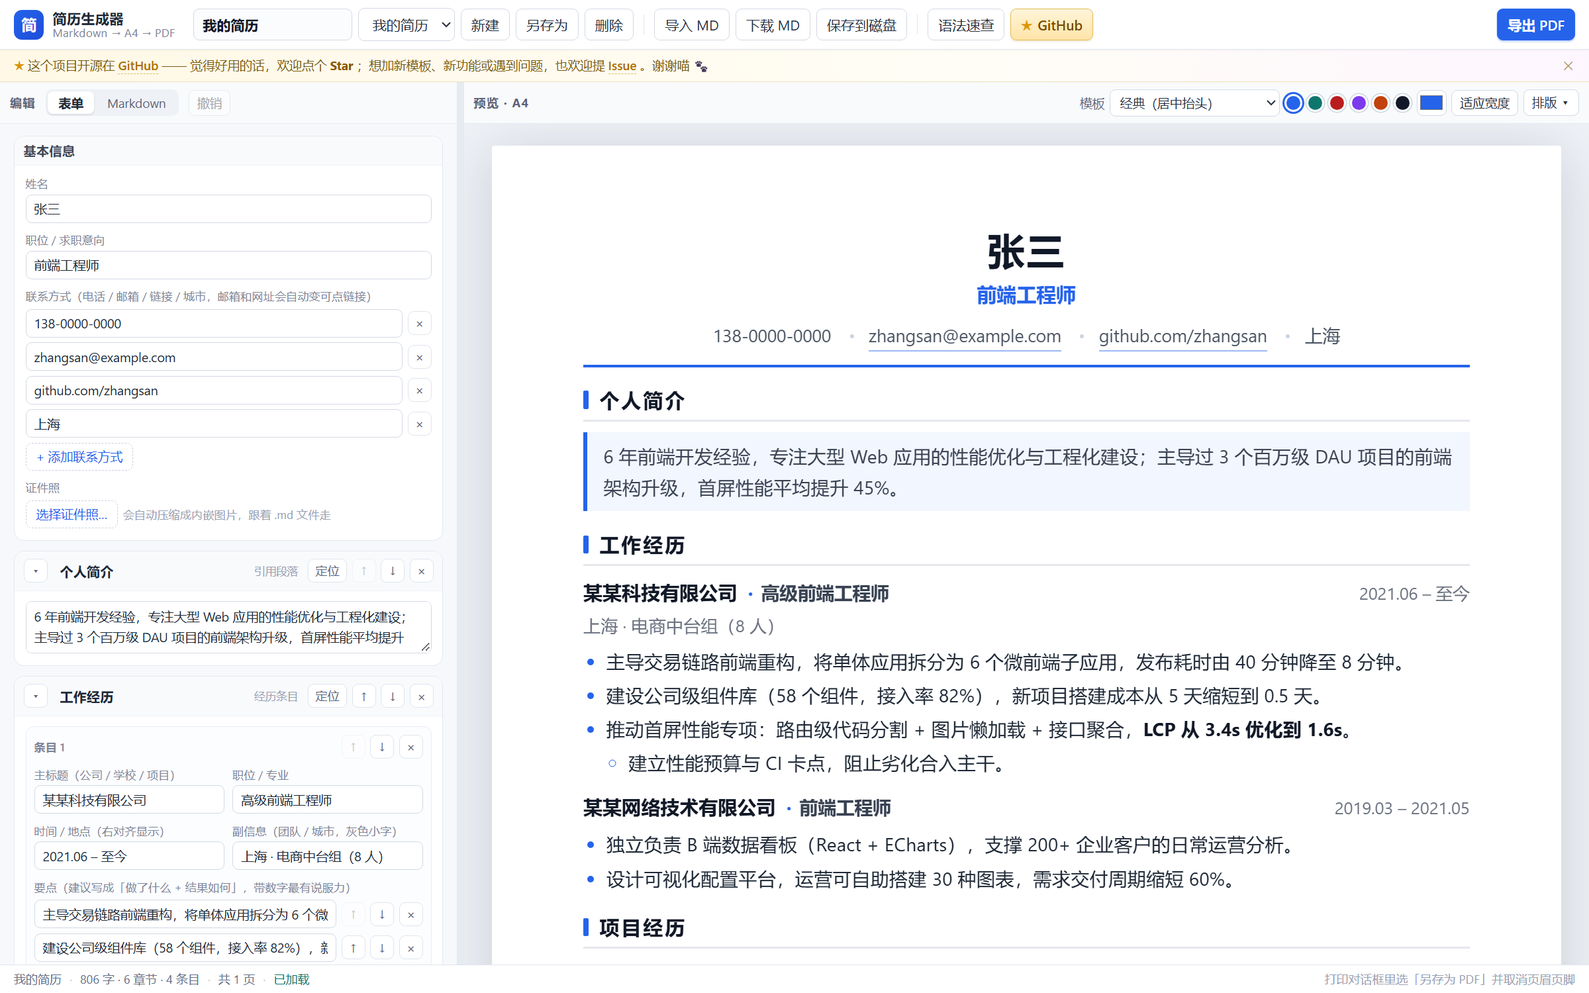
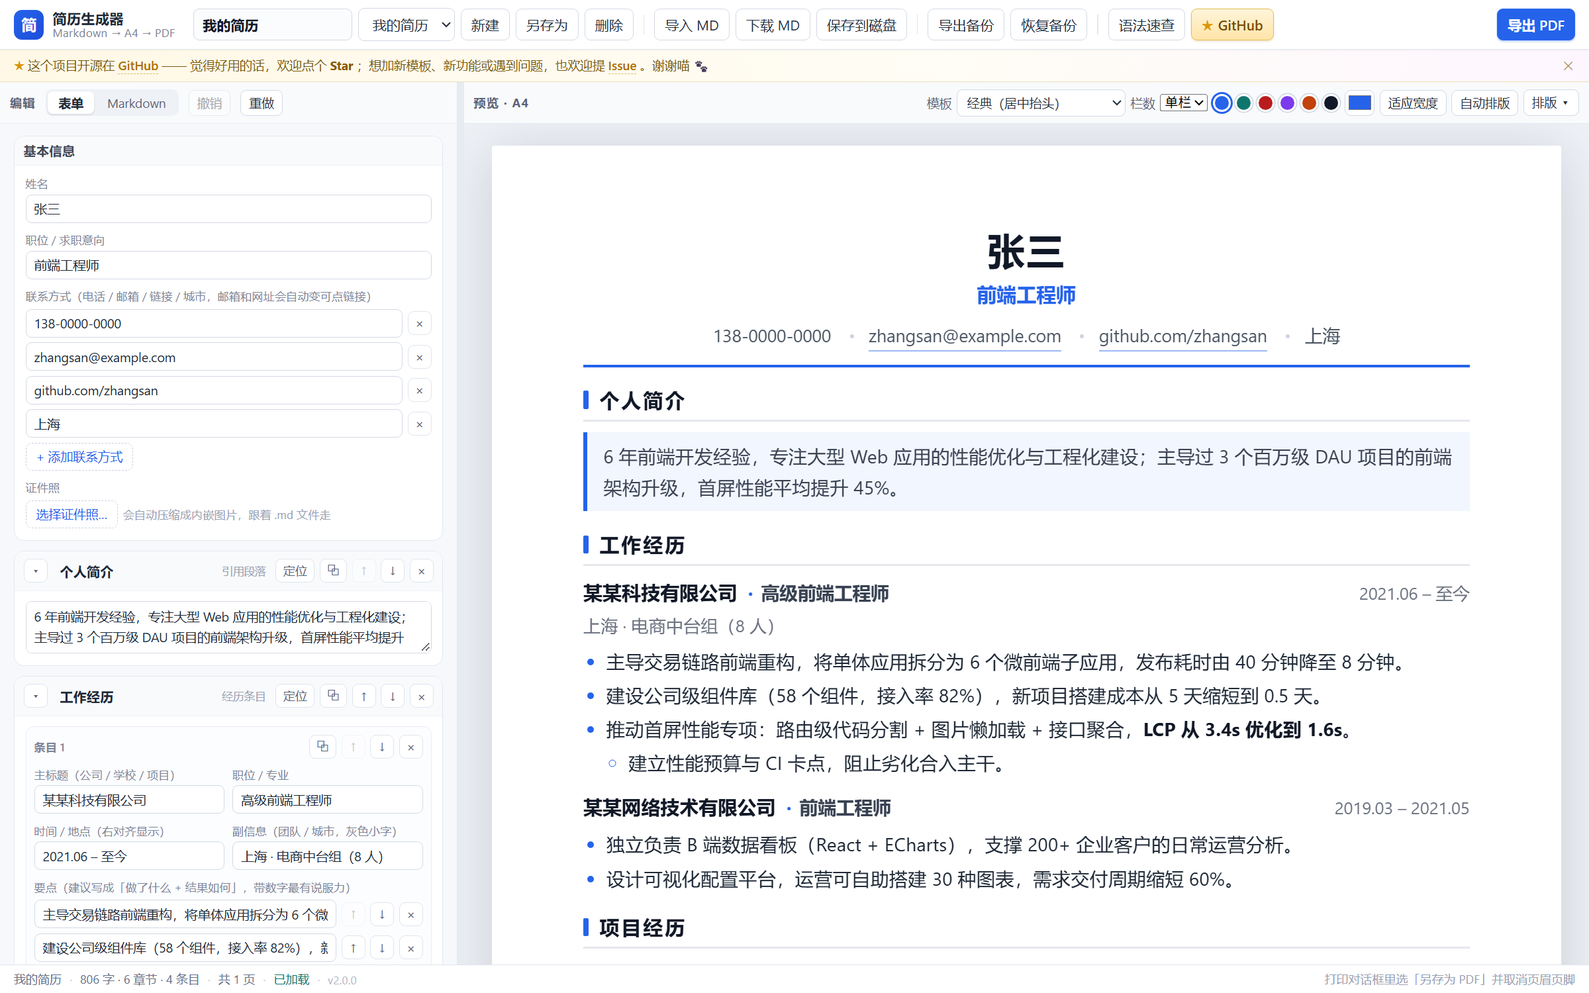
发布 2.0.0（清账版）：打印分页自动化、深色收尾、表格布局、独立审查修复
新功能/改进
- 「压到一页」升级为「自动排版」：内容超一页就压缩，不足一页就放大填满（到 98% 左右停），整体可撤销
- 栏数从样式里拆出来（template 只管 7 套样式，columns: 1|2 独立），任意样式都能配双栏；
  左栏可单独设字号与文字色（railFontSize / railColor）；旧 template: twocol 继续兼容
- 「栏数」「自动排版」挪到预览区右上角（样式下拉与「排版」按钮旁）

按第六轮独立审查修复（报告存 .reviews/2.0.0-review.md）
- P1 界面预览.png 是升版本前的截图（README 首图显示 v1.8.3）→ 用当前构建截图覆盖
- P1 README 两处 template 被 TAB 破坏 → 修字
- P2 3+ 列表格最小宽度固定 300px、4/5 列仍挤 → 改为按列数计算（220 + cols*80），静态断言改为匹配真实条件
- P2 分页用例只测「至少 2 页」→ 收紧为精确页数（手动分页恰好 3 页、双栏恰好 2 页）
  + 新增逐页文本断言（个人简介第 1 页 / 工作经历第 2 页）
- P2 表单编辑段落/引用章节会吞掉紧邻的手动分页（既有 bug）→ 收集正文跳过 ---、改写时保留 + edge 回归用例
- P2 更新日志补 1.8.1–1.8.3，2.0.0 只保留清账内容；README 自检数字按实跑修正（361 项）
- P3 深色下横幅关闭按钮悬停的浅色描边；T6 容差还原 +1；目录结构「8 套」→ 7 套样式

打印分页验证（本次重点）
- 造了 5 组真实场景（单栏 1 页 / 单栏 2 页 / 双栏 2 页 / 带证件照 / 两处手动分页）出 PDF + 首页图
- 双栏超过一页时第 2 页左侧留空 = 明确接受的取舍，已写进 README 说明与限制

测试：引擎 51 + 表单 41 + 边界 124 + 应用 118 + 导出 27 = 361 项全绿；
单文件版 211.4 KB，与全新构建逐字节一致；版本号五处统一 2.0.0。

diff --git a/简历生成器-单文件.html b/简历生成器-单文件.html
@@ -1,7 +1,7 @@
 <!DOCTYPE html>
 <html lang="zh-CN">
 <head>
-<!-- 简历生成器 · 单文件便携版（构建于 2026-10-11）
+<!-- 简历生成器 · 单文件便携版（构建于 2026-10-17）
      直接双击用浏览器打开即可：写 Markdown、实时预览 A4、导出 PDF。
      没有外部依赖，可以拷到任何地方离线使用。
      由 build-single.mjs 生成，请勿手工编辑；改源码后重新运行该脚本。 -->
@@ -18,7 +18,7 @@ try {
 } catch (e) { /* 读不到偏好就按浅色 */ }
 </script>
 <style>
-/* ==== assets/resume.css?v=1.8.3 ==== */
+/* ==== assets/resume.css?v=2.0.0 ==== */
 /*!
  * resume.css —— 简历纸张样式（预览与 PDF 共用，不含编辑器界面样式）
  * 变量：--r-accent / --r-font-size / --r-line-height / --r-margin-y / --r-margin-x
@@ -457,10 +457,10 @@ try {
 .resume-sheet.cols-2 .r-rail .r-quote { margin: 0; }
 
 /* 左栏里的表格已由渲染端改成「标签：值」堆叠 */
-.r-pairs { margin: 2px 0 0; }
-.r-pair { margin: 0 0 3px; line-height: 1.5; }
-.r-pair-k { color: var(--r-rail-ink, #6b7280); margin-right: 4px; }
-.r-pair-v { color: inherit; }
+.r-rail .r-pairs { margin: 2px 0 0; }
+.r-rail .r-pair { margin: 0 0 3px; line-height: 1.5; }
+.r-rail .r-pair-k { color: var(--r-rail-ink, #6b7280); margin-right: 4px; }
+.r-rail .r-pair-v { color: inherit; }
 .resume-sheet.cols-2 .r-rail .r-section { margin-top: 12px; }
 .resume-sheet.cols-2 .r-rail .r-section-title {
   border: 0;
@@ -538,7 +538,7 @@ try {
 .resume-sheet.cols-2 .r-rail .r-quote { color: var(--r-rail-ink, #374151); }
 </style>
 <style>
-/* ==== assets/app.css?v=1.8.3 ==== */
+/* ==== assets/app.css?v=2.0.0 ==== */
 /*!
  * app.css —— 编辑器 / 预览工作台界面样式（只作用于界面，不影响纸张与打印结果）
  */
@@ -1363,11 +1363,40 @@ html[data-theme="dark"] .page-guide { border-color: #38425a; }
 /* 预览区右上角：模板 / 栏数 / 主色 / 适应宽度 / 自动排版 / 排版 —— 放不下就换行，别挤出去 */
 .pane-head .tools { flex-wrap: wrap; row-gap: 4px; }
 .pane-head .tools .inline-field select { max-width: 170px; }
+
+/* ---- 深色模式收尾：对比度与悬停反馈 ---- */
+@media screen {
+html[data-theme="dark"] .color-input { background: #232a38; border-color: #38425a; }
+html[data-theme="dark"] .gh-banner b { color: #f0d58a; }
+html[data-theme="dark"] .gh-banner a:hover { color: #ffe8a8; }
+html[data-theme="dark"] .gh-banner-close:hover { background: #38425a; border-color: #38425a; color: #fff; }
+html[data-theme="dark"] .gh-link:hover { background: linear-gradient(180deg, #4a3a16, #3a3014); border-color: #8a7431; }
+html[data-theme="dark"] .btn-primary:hover { background: #1d4ed8; border-color: #1d4ed8; }
+html[data-theme="dark"] .fbtn-danger:hover { background: #7f1d1d; border-color: #7f1d1d; }
+html[data-theme="dark"] .pane-title,
+html[data-theme="dark"] .inline-field,
+html[data-theme="dark"] .fcard-kind,
+html[data-theme="dark"] .fld-label,
+html[data-theme="dark"] .fgroup-title,
+html[data-theme="dark"] .fhint,
+html[data-theme="dark"] .fentry-index,
+html[data-theme="dark"] .field > label,
+html[data-theme="dark"] .statusbar .dot { color: #a7b3c6; }
+html[data-theme="dark"] .frow-sub,
+html[data-theme="dark"] .modal-head,
+html[data-theme="dark"] .help-table th,
+html[data-theme="dark"] .help-table td { border-color: #2b3342; }
+html[data-theme="dark"] .page-guide-label { background: #2d3648; color: #c7d0de; }
+}
+/* ≤560px：3 列以上的表格不至于把中间列挤成几十像素；配合 .ftable-wrap 的横向滚动 */
+@media screen and (max-width: 560px) {
+  .ftable.ftable-wide { min-width: 300px; }   /* JS 会按列数覆盖成更合适的值 */
+}
 </style>
 <meta name="application-name" content="简历生成器">
 <!-- 版本号：静态资源都带 ?v= 查询串，改版本号即可让浏览器 / CDN 立刻取到新文件。
      发布前记得把这里和下面 4 处脚本引用的版本号一起改掉。 -->
-<meta name="app-version" content="1.8.3">
+<meta name="app-version" content="2.0.0">
[1 lines of base64/hex data omitted]
 <style id="printPageStyle">@page { size: A4; }</style>
 </head>
@@ -1636,7 +1665,7 @@ html[data-theme="dark"] .page-guide { border-color: #38425a; }
 <div class="toast" id="toast" hidden></div>
 
 <script>
-/* ==== assets/resume-md.js?v=1.8.3 ==== */
+/* ==== assets/resume-md.js?v=2.0.0 ==== */
 /*!
  * resume-md.js —— 轻量 Markdown → 简历 HTML 渲染引擎（零依赖，浏览器 / Node 通用）
  *
@@ -2270,8 +2299,10 @@ html[data-theme="dark"] .page-guide { border-color: #38425a; }
     var railTitles = parseRailTitles(settings.rail);
     var body;
     var railStyle = [];
-    if (settings.railFontSize) railStyle.push('font-size: ' + settings.railFontSize);
-    if (settings.railColor) railStyle.push('--r-rail-ink: ' + settings.railColor, 'color: ' + settings.railColor);
+    // 两个值都已过 normalizeSettings（字号被 clamp 成 NNpx、颜色只允许 hex），这里再 esc 一道，
+    // 免得将来放宽校验时变成属性注入
+    if (settings.railFontSize) railStyle.push('font-size: ' + esc(settings.railFontSize));
+    if (settings.railColor) railStyle.push('--r-rail-ink: ' + esc(settings.railColor), 'color: ' + esc(settings.railColor));
     var railStyleAttr = railStyle.length ? ' style="' + railStyle.join('; ') + '"' : '';
 
     if (settings.columns === '2' && railTitles.length) {
@@ -2364,7 +2395,7 @@ html[data-theme="dark"] .page-guide { border-color: #38425a; }
 });
 </script>
 <script>
-/* ==== assets/resume-form.js?v=1.8.3 ==== */
+/* ==== assets/resume-form.js?v=2.0.0 ==== */
 /*!
  * resume-form.js —— 表单模式的「纯逻辑层」：把 Markdown 拆成模块，并按块改写
  *
@@ -2523,6 +2554,7 @@ html[data-theme="dark"] .page-guide { border-color: #38425a; }
     var quote = false;
     for (var p = start + 1; p < end; p++) {
       if (!lines[p].trim()) continue;
+      if (/^-{3,}\s*$/.test(lines[p].trim())) continue;   // 手动分页不属于正文，别混进可编辑文本
       if (/^>\s?/.test(lines[p].trim())) { quote = true; texts.push(lines[p].trim().replace(/^>\s?/, '')); }
       else texts.push(lines[p].trim());
     }
@@ -2938,10 +2970,15 @@ html[data-theme="dark"] .page-guide { border-color: #38425a; }
         if (s.quote) {
           while (block.length && !block[block.length - 1].replace(/^>\s?/, '').trim()) block.pop();
         }
+        // 这一段里如果有手动分页（---），改完正文要把它留在原处附近，不能被吞掉
+        var hadBreak = false;
+        for (var i = s.start + 1; i < s.end; i++) {
+          if (/^-{3,}\s*$/.test(lines[i].trim())) { hadBreak = true; break; }
+        }
         var head = lines.slice(0, s.start + 1);
         var tail = lines.slice(s.end);
         while (tail.length && !tail[0].trim()) tail.shift();
-        return head.concat([''], block, [''], tail);
+        return head.concat([''], block, [''], hadBreak ? ['---', ''] : [], tail);
       });
     },
 
@@ -3114,7 +3151,7 @@ html[data-theme="dark"] .page-guide { border-color: #38425a; }
 });
 </script>
 <script>
-/* ==== assets/form-view.js?v=1.8.3 ==== */
+/* ==== assets/form-view.js?v=2.0.0 ==== */
 /*!
  * form-view.js —— 表单模式的界面层：把模块模型渲染成可折叠、可增删排序的表单
  *
@@ -3571,8 +3608,12 @@ html[data-theme="dark"] .page-guide { border-color: #38425a; }
 
     function renderTable(sec, si) {
       var wrap = el('div', 'ftable-wrap');
-      var table = el('table', 'ftable');
       var cols = sec.table.rows[0].length;
+      // 3 列以上才加最小宽度：窄屏时让它横向滚动，而不是把每列挤成几十像素；
+      // 2 列表格不加，永远不出现横向滚动
+      var table = el('table', cols > 2 ? 'ftable ftable-wide' : 'ftable');
+      // 最小宽度按列数给：3 列 300px、每多一列 +80px，保证每列还有可用宽度（配合 wrap 横向滚动）
+      if (cols > 2) table.style.minWidth = (220 + cols * 80) + 'px';
       sec.table.rows.forEach(function (row, ri) {
         var tr = el('tr');
         for (var ci = 0; ci < cols; ci++) {
@@ -3702,7 +3743,7 @@ html[data-theme="dark"] .page-guide { border-color: #38425a; }
 })(window);
 </script>
 <script>
-/* ==== assets/app.js?v=1.8.3 ==== */
+/* ==== assets/app.js?v=2.0.0 ==== */
 /*!
  * app.js —— 简历生成器工作台逻辑
  * 数据流：Markdown 文本（含文首配置块）是唯一数据源 → 解析渲染 → 预览 / 打印导出
@@ -4306,6 +4347,11 @@ html[data-theme="dark"] .page-guide { border-color: #38425a; }
    * 切换文档 / 离开页面之前必须先调用：自动保存有 900ms 防抖，若在防抖窗口内切换文档，
    * 定时器醒来时 state.markdown 已经是「另一份文档」的内容，原来那份的最新改动就丢了
    * —— 表现就是「改完内容点一下就变回原来的样子」。
+   */
+  /**
+   * 立刻落盘。
+   * 注意：这里有意不判断 prefs.autoSave —— 关掉自动保存只表示「不随手存」，
+   * 切换文档 / 页面隐藏时仍然要把改动写下去，避免用户以为改了却没存。
    */
   function flushAutoSave() {
     window.clearTimeout(saveTimer);

diff --git a/assets/app.css b/assets/app.css
@@ -822,3 +822,32 @@ html[data-theme="dark"] .page-guide { border-color: #38425a; }
 /* 预览区右上角：模板 / 栏数 / 主色 / 适应宽度 / 自动排版 / 排版 —— 放不下就换行，别挤出去 */
 .pane-head .tools { flex-wrap: wrap; row-gap: 4px; }
 .pane-head .tools .inline-field select { max-width: 170px; }
+
+/* ---- 深色模式收尾：对比度与悬停反馈 ---- */
+@media screen {
+html[data-theme="dark"] .color-input { background: #232a38; border-color: #38425a; }
+html[data-theme="dark"] .gh-banner b { color: #f0d58a; }
+html[data-theme="dark"] .gh-banner a:hover { color: #ffe8a8; }
+html[data-theme="dark"] .gh-banner-close:hover { background: #38425a; border-color: #38425a; color: #fff; }
+html[data-theme="dark"] .gh-link:hover { background: linear-gradient(180deg, #4a3a16, #3a3014); border-color: #8a7431; }
+html[data-theme="dark"] .btn-primary:hover { background: #1d4ed8; border-color: #1d4ed8; }
+html[data-theme="dark"] .fbtn-danger:hover { background: #7f1d1d; border-color: #7f1d1d; }
+html[data-theme="dark"] .pane-title,
+html[data-theme="dark"] .inline-field,
+html[data-theme="dark"] .fcard-kind,
+html[data-theme="dark"] .fld-label,
+html[data-theme="dark"] .fgroup-title,
+html[data-theme="dark"] .fhint,
+html[data-theme="dark"] .fentry-index,
+html[data-theme="dark"] .field > label,
+html[data-theme="dark"] .statusbar .dot { color: #a7b3c6; }
+html[data-theme="dark"] .frow-sub,
+html[data-theme="dark"] .modal-head,
+html[data-theme="dark"] .help-table th,
+html[data-theme="dark"] .help-table td { border-color: #2b3342; }
+html[data-theme="dark"] .page-guide-label { background: #2d3648; color: #c7d0de; }
+}
+/* ≤560px：3 列以上的表格不至于把中间列挤成几十像素；配合 .ftable-wrap 的横向滚动 */
+@media screen and (max-width: 560px) {
+  .ftable.ftable-wide { min-width: 300px; }   /* JS 会按列数覆盖成更合适的值 */
+}

diff --git a/index.html b/index.html
@@ -13,13 +13,13 @@ try {
   document.documentElement.setAttribute('data-theme', dark ? 'dark' : 'light');
 } catch (e) { /* 读不到偏好就按浅色 */ }
 </script>
-<link rel="stylesheet" href="assets/resume.css?v=1.8.3">
-<link rel="stylesheet" href="assets/app.css?v=1.8.3">
+<link rel="stylesheet" href="assets/resume.css?v=2.0.0">
+<link rel="stylesheet" href="assets/app.css?v=2.0.0">
 <meta name="application-name" content="简历生成器">
 <!-- 版本号：静态资源都带 ?v= 查询串，改版本号即可让浏览器 / CDN 立刻取到新文件。
      发布前记得把这里和下面 4 处脚本引用的版本号一起改掉。 -->
-<meta name="app-version" content="1.8.3">
-<link rel="icon" type="image/png" sizes="192x192" href="assets/icons/icon-192.png?v=1.8.3">
+<meta name="app-version" content="2.0.0">
+<link rel="icon" type="image/png" sizes="192x192" href="assets/icons/icon-192.png?v=2.0.0">
 <style id="printPageStyle">@page { size: A4; }</style>
 </head>
 <body>
@@ -286,9 +286,9 @@ try {
 
 <div class="toast" id="toast" hidden></div>
 
-<script src="assets/resume-md.js?v=1.8.3"></script>
-<script src="assets/resume-form.js?v=1.8.3"></script>
-<script src="assets/form-view.js?v=1.8.3"></script>
-<script src="assets/app.js?v=1.8.3"></script>
+<script src="assets/resume-md.js?v=2.0.0"></script>
+<script src="assets/resume-form.js?v=2.0.0"></script>
+<script src="assets/form-view.js?v=2.0.0"></script>
+<script src="assets/app.js?v=2.0.0"></script>
 </body>
 </html>

diff --git a/assets/resume-form.js b/assets/resume-form.js
@@ -156,6 +156,7 @@
     var quote = false;
     for (var p = start + 1; p < end; p++) {
       if (!lines[p].trim()) continue;
+      if (/^-{3,}\s*$/.test(lines[p].trim())) continue;   // 手动分页不属于正文，别混进可编辑文本
       if (/^>\s?/.test(lines[p].trim())) { quote = true; texts.push(lines[p].trim().replace(/^>\s?/, '')); }
       else texts.push(lines[p].trim());
     }
@@ -571,10 +572,15 @@
         if (s.quote) {
           while (block.length && !block[block.length - 1].replace(/^>\s?/, '').trim()) block.pop();
         }
+        // 这一段里如果有手动分页（---），改完正文要把它留在原处附近，不能被吞掉
+        var hadBreak = false;
+        for (var i = s.start + 1; i < s.end; i++) {
+          if (/^-{3,}\s*$/.test(lines[i].trim())) { hadBreak = true; break; }
+        }
         var head = lines.slice(0, s.start + 1);
         var tail = lines.slice(s.end);
         while (tail.length && !tail[0].trim()) tail.shift();
-        return head.concat([''], block, [''], tail);
+        return head.concat([''], block, [''], hadBreak ? ['---', ''] : [], tail);
       });
     },
 

diff --git a/assets/resume-md.js b/assets/resume-md.js
@@ -631,8 +631,10 @@
     var railTitles = parseRailTitles(settings.rail);
     var body;
     var railStyle = [];
-    if (settings.railFontSize) railStyle.push('font-size: ' + settings.railFontSize);
-    if (settings.railColor) railStyle.push('--r-rail-ink: ' + settings.railColor, 'color: ' + settings.railColor);
+    // 两个值都已过 normalizeSettings（字号被 clamp 成 NNpx、颜色只允许 hex），这里再 esc 一道，
+    // 免得将来放宽校验时变成属性注入
+    if (settings.railFontSize) railStyle.push('font-size: ' + esc(settings.railFontSize));
+    if (settings.railColor) railStyle.push('--r-rail-ink: ' + esc(settings.railColor), 'color: ' + esc(settings.railColor));
     var railStyleAttr = railStyle.length ? ' style="' + railStyle.join('; ') + '"' : '';
 
     if (settings.columns === '2' && railTitles.length) {

diff --git a/assets/form-view.js b/assets/form-view.js
@@ -454,8 +454,12 @@
 
     function renderTable(sec, si) {
       var wrap = el('div', 'ftable-wrap');
-      var table = el('table', 'ftable');
       var cols = sec.table.rows[0].length;
+      // 3 列以上才加最小宽度：窄屏时让它横向滚动，而不是把每列挤成几十像素；
+      // 2 列表格不加，永远不出现横向滚动
+      var table = el('table', cols > 2 ? 'ftable ftable-wide' : 'ftable');
+      // 最小宽度按列数给：3 列 300px、每多一列 +80px，保证每列还有可用宽度（配合 wrap 横向滚动）
+      if (cols > 2) table.style.minWidth = (220 + cols * 80) + 'px';
       sec.table.rows.forEach(function (row, ri) {
         var tr = el('tr');
         for (var ci = 0; ci < cols; ci++) {

diff --git a/assets/resume.css b/assets/resume.css
@@ -436,10 +436,10 @@
 .resume-sheet.cols-2 .r-rail .r-quote { margin: 0; }
 
 /* 左栏里的表格已由渲染端改成「标签：值」堆叠 */
-.r-pairs { margin: 2px 0 0; }
-.r-pair { margin: 0 0 3px; line-height: 1.5; }
-.r-pair-k { color: var(--r-rail-ink, #6b7280); margin-right: 4px; }
-.r-pair-v { color: inherit; }
+.r-rail .r-pairs { margin: 2px 0 0; }
+.r-rail .r-pair { margin: 0 0 3px; line-height: 1.5; }
+.r-rail .r-pair-k { color: var(--r-rail-ink, #6b7280); margin-right: 4px; }
+.r-rail .r-pair-v { color: inherit; }
 .resume-sheet.cols-2 .r-rail .r-section { margin-top: 12px; }
 .resume-sheet.cols-2 .r-rail .r-section-title {
   border: 0;

diff --git a/assets/app.js b/assets/app.js
@@ -602,6 +602,11 @@
    * 定时器醒来时 state.markdown 已经是「另一份文档」的内容，原来那份的最新改动就丢了
    * —— 表现就是「改完内容点一下就变回原来的样子」。
    */
+  /**
+   * 立刻落盘。
+   * 注意：这里有意不判断 prefs.autoSave —— 关掉自动保存只表示「不随手存」，
+   * 切换文档 / 页面隐藏时仍然要把改动写下去，避免用户以为改了却没存。
+   */
   function flushAutoSave() {
     window.clearTimeout(saveTimer);
     saveTimer = null;

diff --git a/可选-本地服务/sw.js b/可选-本地服务/sw.js
@@ -8,7 +8,7 @@
  *   - 激活时清理旧版本缓存。
  * 改动静态资源后请把 VERSION 加一。
  */
-const VERSION = 'v1.8.3';   // 每次发版都要加一：activate 时靠它清掉旧缓存
+const VERSION = 'v2.0.0';   // 每次发版都要加一：activate 时靠它清掉旧缓存
 const CACHE = 'resume-gen-' + VERSION;
 
 const PRECACHE = [

diff --git a/.reviews/2.0.0-review.md b/.reviews/2.0.0-review.md
@@ -1,0 +1,47 @@
+# 2.0.0 发布批次 · 独立审查报告（第六轮）
+
+- 审查对象：`HEAD = 7b24d10` + 工作区 13 个未提交改动（`git diff 7b24d10`）
+- 审查方式：全新上下文的独立审查成员、**只读**（不改任何文件；Chrome 用例未跑，按约定需审批）
+- 审查范围：打印分页、表格布局、深色收尾、版本号与产物一致性、历史遗留项、数据/同步/注入面/缓存/兼容
+
+## 一、结论
+
+**可以推送发布 2.0.0**，但需先修 2 个 P1（均为文档/产物，分钟级）。代码层面无阻塞性问题：版本号五处一致、单文件可复现、旧 `template: twocol` 兼容、注入面与数据同步未被本批破坏。
+
+## 二、发现与处理
+
+| 编号 | 级别 | 问题 | 处理 |
+| --- | --- | --- | --- |
+| P1-1 | 必须修 | `界面预览.png` 是升版本前截的图，README 首图显示 v1.8.3 | ✅ 用当前构建（v2.0.0）的截图覆盖 |
+| P1-2 | 必须修 | README 两处 `template` 被 TAB 破坏成「\t emplate」 | ✅ 修字 |
+| P2-3 | 建议 | 3+ 列表格 `min-width` 固定 300px，4/5 列仍只剩几十像素；唯一断言是静态正则，且 DOM 用例用的是 2 列表格 | ✅ 最小宽度改为按列数计算（`220 + cols * 80`），静态断言匹配 `cols > 2 ? 'ftable ftable-wide'` 并校验内联样式 |
+| P2-4 | 建议 | 分页用例只断言 `pages >= 2`、「内容不丢」是全文 OR 匹配、双栏用例没覆盖「左栏超一页」 | ✅ 改为精确页数（手动分页恰好 3 页 / 双栏恰好 2 页）+ 新增逐页文本辅助，断言「个人简介」第 1 页、「工作经历」第 2 页 |
+| P2-5 | 建议 | 表单编辑段落/引用章节会吞掉紧邻的手动分页（既有 bug） | ✅ 收集正文时跳过 `---`，改写时保留；新增 edge 回归用例 |
+| P2-6 | 建议 | README 自检数字 118/357 是否准确 | ✅ 以本机实跑为准（verify:app 118），修正边界数字 |
+| P2-7 | 建议 | 2.0.0 更新日志缺 1.8.1–1.8.3，且把补丁内容算进 2.0.0 | ✅ 2.0.0 收窄为清账内容，补 1.8.1–1.8.3 三条 |
+| P3-8 | 小项 | T6 容差 1→2 是诊断残留 | ✅ 还原 +1（已通过） |
+| P3-9 | 小项 | 深色下横幅关闭按钮悬停出现浅米色 1px 描边 | ✅ 补 `border-color` |
+| P3-10 | 小项 | 静态断言太弱（注释里出现字符串也算过） | ✅ 改为匹配真实条件表达式 |
+| P3-11 | 小项 | `.r-pairs` 作用域改动实际是 no-op | ✅ 保留（无害），在此记录事实 |
+| P3-13 | 小项 | README 目录结构仍写「8 套模板」 | ✅ 改为 7 套样式 + columns 说明 |
+
+## 三、审查确认无问题的点（摘要）
+
+- 版本号五处一致；单文件版与「当前源码全新构建」逐字节一致（SHA256 相同）
+- 新增分页用例**确实有效**：fixture 里 `---` 真进文档（`manualBreaks === 2`）、PDF 真分页、`pdfText` 能解 CJK、编辑标记未泄漏
+- `break-after: page` + `.page-break { height: 0 }` 在两次真实导出中稳定
+- 2 列表格永不横向滚动；`.ftable-wide` 只在 `cols > 2` 时加
+- 注入面：`railFontSize` 被 clamp 成 `NNpx`、`railColor` 只放行 hex，实测注入串被规范化
+- 深色 CSS 新增选择器全部真实存在，整块在 `@media screen` 内，不影响纸张与打印
+- 旧 `template: twocol` 实测仍得到 `columns=2` + 左栏；`.md` 兼容未被破坏
+- 本批 `app.js` 仅加注释，保存/切换/撤销逻辑未动
+
+## 四、遗留（不阻塞 2.0.0，建议 2.0.1）
+
+- 「左栏本身高于一页」时的裁切风险仍无真实产物验证（浮动不分片，属两列版式固有取舍，已在 README 说明）
+- 连续 `---`、文首/文末 `---`、双栏内 `---` 尚未纳入分页用例
+- `app.js` 有一段新增 JSDoc 与旧注释相连（可读性，无行为影响）
+
+## 五、复验（主控）
+
+修复后本机实跑：`smoke 51 / form 41 / edge 124 / verify-app 118 / verify-export 27`，**361 项全绿**；单文件版重建后与全新构建逐字节一致；版本五处仍为 2.0.0。审查报告与修复同批推送。
